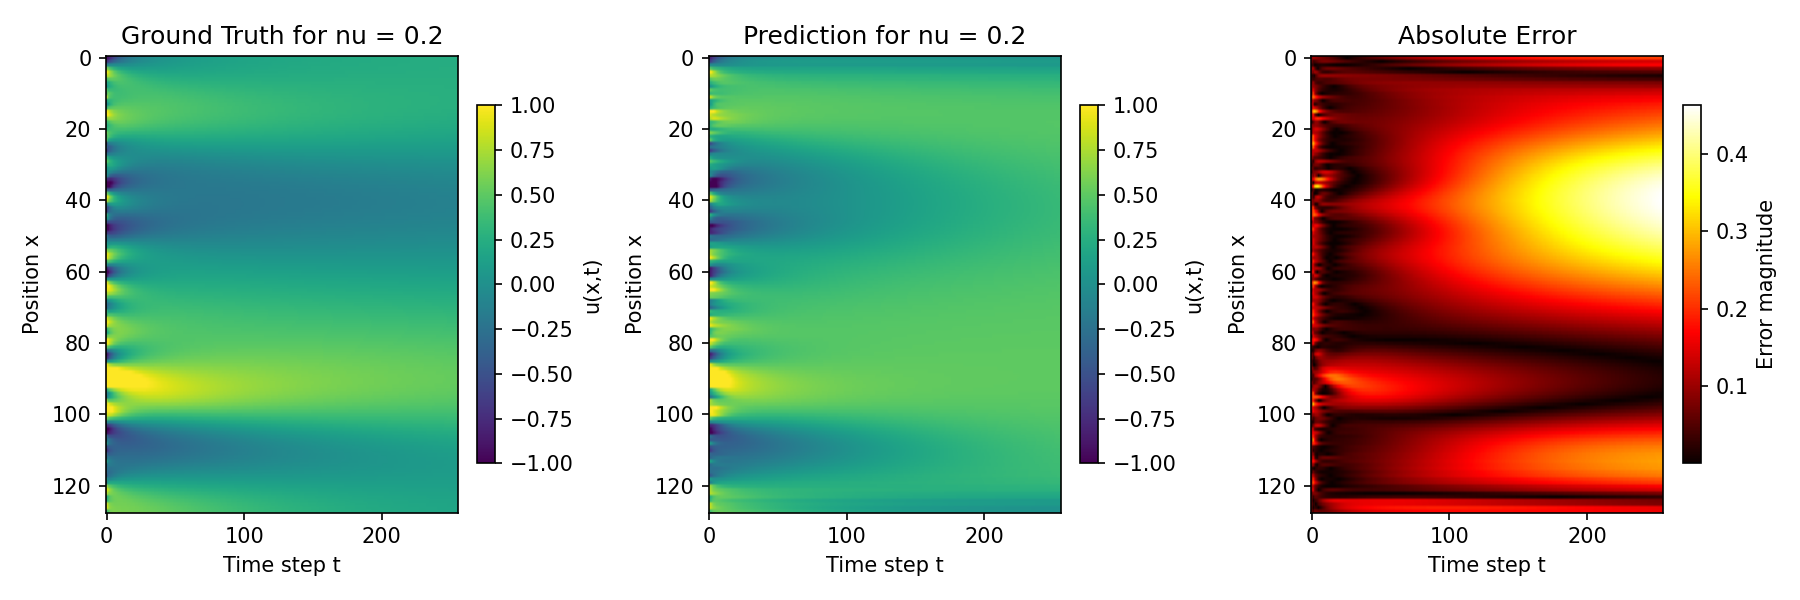
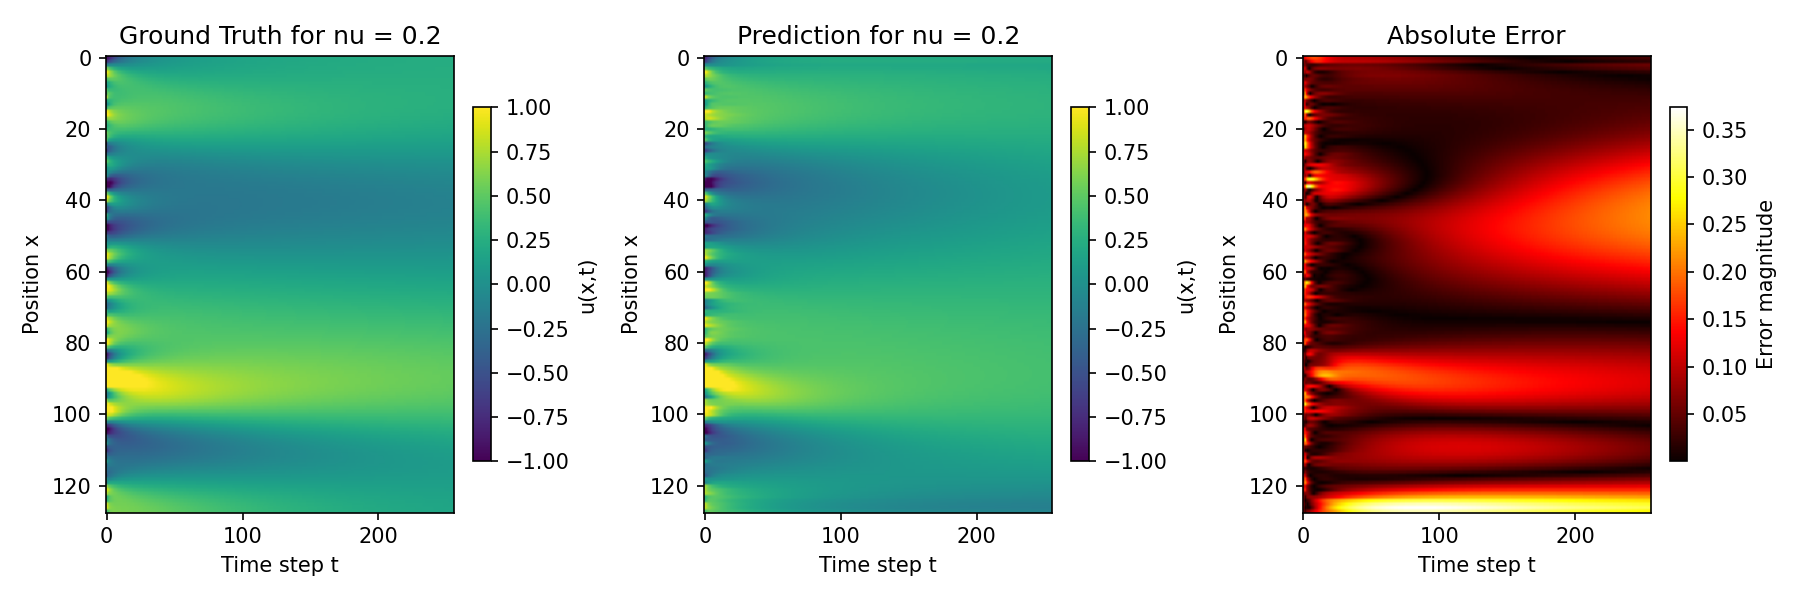
updates

diff --git a/Physical_Simulator/burgers_minimal_Akash.py b/Physical_Simulator/burgers_minimal_Akash.py
@@ -152,7 +152,7 @@ def spatial_gradient(u, dx=0.05):
     u_left = torch.roll(u, 1, dims=-1)
     return (u_right - u_left) / (2 * dx)
 
-def plot_trajectory_comparison(model, test_loader, history_len, epoch=None):
+def plot_trajectory_comparison(model, test_batch, history_len, epoch=None):
     """
     Plots full trajectory: True vs Pred vs Error
     """
@@ -166,68 +166,67 @@ def plot_trajectory_comparison(model, test_loader, history_len, epoch=None):
 
 
     with torch.no_grad():
-        for history_batch, target_batch, nu_batch in test_loader:
-            history_batch = history_batch.to(device)
-            target_batch = target_batch.to(device)
-            nu_batch = nu_batch.to(device)
-            B, T, N = target_batch.shape
+        history_batch, target_batch, nu_batch = test_batch
+        history_batch = history_batch.to(device)
+        target_batch = target_batch.to(device)
+        nu_batch = nu_batch.to(device)
+        B, T, N = target_batch.shape
 
-            preds = []
-            current_window = history_batch # (B, history_len, N)
-            
-            for t in range(T):
-                # Ensure shape is (B, history_len, N)
-                if current_window.dim() == 2:
-                    # Expand to (B, history_len, N)
-                    current_window = current_window.unsqueeze(1).repeat(1, history_len, 1)
-                pred = model(current_window)
-                if pred.dim() == 2:
-                    pred = pred.unsqueeze(1)
-                preds.append(pred)
-                current_window = torch.cat([current_window[:, 1:, :], pred], dim=1)
+        preds = []
+        current_window = history_batch # (B, history_len, N)
+        
+        if current_window.dim() == 2:
+            # Expand to (B, history_len, N)
+            current_window = current_window.unsqueeze(1).repeat(1, history_len, 1)
+        for t in range(T):
+            # Ensure shape is (B, history_len, N)
+            pred = model(current_window)
+            if pred.dim() == 2:
+                pred = pred.unsqueeze(1)
+            preds.append(pred)
+            current_window = torch.cat([current_window[:, 1:, :], pred], dim=1)
 
-            preds = torch.stack(preds)  # (T, B, 1, N)
-            preds = preds.squeeze(2)  # remove singleton channel -> (T, B, N)
-            preds = preds.permute(1, 0, 2) # (B, T, N)
-            true = target_batch # (B, T, N)
+        preds = torch.stack(preds)  # (T, B, 1, N)
+        preds = preds.squeeze(2)  # remove singleton channel -> (T, B, N)
+        preds = preds.permute(1, 0, 2) # (B, T, N)
+        true = target_batch # (B, T, N)
 
-            # Take first sample
-            pred_np = preds[0].cpu().numpy()  # (T, N)
-            true_np = true[0].cpu().numpy()   # (T, N)
-            nu_val = float(nu_batch[0].item()) # (1)
-            error_np = np.abs(pred_np - true_np)    # (T, N)
+        # Take first sample
+        pred_np = preds[0].cpu().numpy()  # (T, N)
+        true_np = true[0].cpu().numpy()   # (T, N)
+        nu_val = float(nu_batch[0].item()) # (1)
+        error_np = np.abs(pred_np - true_np)    # (T, N)
 
-            fig, axes = plt.subplots(1, 3, figsize=(12, 4))
+        fig, axes = plt.subplots(1, 3, figsize=(12, 4))
 
-            # Ground Truth Plot
-            im0 = axes[0].imshow(true_np.T, aspect='auto', cmap='viridis', vmin=-1, vmax=1)
-            axes[0].set_title(f"Ground Truth for nu = {nu_val:.3g}")
-            axes[0].set_xlabel('Time step t')
-            axes[0].set_ylabel('Position x')
-            cbar = fig.colorbar(im0, ax=axes[0], fraction=0.046)
-            cbar.set_label('u(x,t)')
+        # Ground Truth Plot
+        im0 = axes[0].imshow(true_np.T, aspect='auto', cmap='viridis', vmin=-1, vmax=1)
+        axes[0].set_title(f"Ground Truth for nu = {nu_val:.3g}")
+        axes[0].set_xlabel('Time step t')
+        axes[0].set_ylabel('Position x')
+        cbar = fig.colorbar(im0, ax=axes[0], fraction=0.046)
+        cbar.set_label('u(x,t)')
 
-            # Prediction Plot
-            im1 = axes[1].imshow(pred_np.T, aspect='auto', cmap='viridis', vmin=-1, vmax=1)
-            axes[1].set_title(f'Prediction for nu = {nu_val:.3g}')
-            axes[1].set_xlabel('Time step t')
-            axes[1].set_ylabel('Position x')
-            cbar = fig.colorbar(im1, ax=axes[1], fraction=0.046)
-            cbar.set_label('u(x,t)')
+        # Prediction Plot
+        im1 = axes[1].imshow(pred_np.T, aspect='auto', cmap='viridis', vmin=-1, vmax=1)
+        axes[1].set_title(f'Prediction for nu = {nu_val:.3g}')
+        axes[1].set_xlabel('Time step t')
+        axes[1].set_ylabel('Position x')
+        cbar = fig.colorbar(im1, ax=axes[1], fraction=0.046)
+        cbar.set_label('u(x,t)')
 
-            # Error Plot
-            im2 = axes[2].imshow(error_np.T, aspect='auto', cmap='hot')
-            axes[2].set_title('Absolute Error')
-            axes[2].set_xlabel('Time step t')
-            axes[2].set_ylabel('Position x')
-            cbar = fig.colorbar(im2, ax=axes[2], fraction=0.046)
-            cbar.set_label('Error magnitude')
+        # Error Plot
+        im2 = axes[2].imshow(error_np.T, aspect='auto', cmap='hot')
+        axes[2].set_title('Absolute Error')
+        axes[2].set_xlabel('Time step t')
+        axes[2].set_ylabel('Position x')
+        cbar = fig.colorbar(im2, ax=axes[2], fraction=0.046)
+        cbar.set_label('Error magnitude')
 
-            plt.tight_layout()
-            if epoch is not None:
-                plt.savefig(output_dir / f"trajectory_epoch_{epoch}_nu{nu_val:.3g}.png", dpi=150)
-            plt.show()
-            break  # only first batch
+        plt.tight_layout()
+        if epoch is not None:
+            plt.savefig(output_dir / f"trajectory_epoch_{epoch}_nu{nu_val:.3g}.png", dpi=150)
+        plt.show()
 
 
 # Function to plot loss per epoch
@@ -251,7 +250,9 @@ def train_model(train_loader, test_loader, history_len=20, num_epochs=50):
     model = ImprovedBurgersNet(history_len).to(device)
     optimizer = torch.optim.AdamW(model.parameters(), lr=0.001, weight_decay=1e-4)
     scheduler = torch.optim.lr_scheduler.CosineAnnealingLR(optimizer, T_max=num_epochs)
-    
+    # Fetch a single test batch upfront for fast evaluation ---
+    test_batch = next(iter(test_loader))
+
     print("="*60)
     print("TRAINING WITH EXTERNAL DATASET")
     print(f"History length: {history_len}")
@@ -270,14 +271,15 @@ def train_model(train_loader, test_loader, history_len=20, num_epochs=50):
 
         
         # Curriculum rollout depth
-        if epoch < 25:
+        if epoch < 10:
             rollout_depth = 8
-        elif epoch < 50:
+            teacher_force_rate = 0.5
+        elif epoch < 30:
             rollout_depth = 16
-        elif epoch < 75:
-            rollout_depth = 32
+            teacher_force_rate = 0.2
         else:
-            rollout_depth = 64
+            rollout_depth = 32
+            teacher_force_rate = 0.05
         
         for batch_idx, batch in enumerate(train_loader):
             history_batch, target_batch, _ = batch
@@ -285,12 +287,7 @@ def train_model(train_loader, test_loader, history_len=20, num_epochs=50):
             target_batch = target_batch.to(device)    # (B, 1, points)
             if history_batch.dim() == 2:
                 history_batch = history_batch.unsqueeze(1).repeat(1, history_len, 1)
-            
-            
-            assert history_batch.shape == (history_batch.shape[0], history_len, history_batch.shape[2])
-            # print(f"\nHistory Batch shape: {history_batch.shape}")  # (B,20,128)
-            # print(f"\nTarget batch shape: {target_batch.shape}")
-            
+                       
             
             optimizer.zero_grad()
             
@@ -311,8 +308,6 @@ def train_model(train_loader, test_loader, history_len=20, num_epochs=50):
                 
                 pred = model(current_window) # Ahora (B, 20, points) → (B, 1, points)
                 target = target_batch[:, k:k+1, :] # (B, 1, points)
-                
-
 
                 # MSE
                 mse = torch.nn.functional.mse_loss(pred.squeeze(), target.squeeze())
@@ -335,7 +330,7 @@ def train_model(train_loader, test_loader, history_len=20, num_epochs=50):
                 
                 # Update window (teacher forcing occasionally)
                 if k < rollout_depth - 1:
-                    if np.random.random() < 0.1:
+                    if np.random.random() < teacher_force_rate:
                         next_state = target # (B,1,128)
                     else:
                         next_state = pred # (B,1,128)
@@ -361,9 +356,9 @@ def train_model(train_loader, test_loader, history_len=20, num_epochs=50):
             print("=" * 50)
             tqdm.write(f"Epoch {epoch}: Loss={avg_loss:.4f}, E_pen={energy_loss_total/len(train_loader):.4f}, Rollout={rollout_depth}")
             print("=" * 50)
-            plot_trajectory_comparison(model, test_loader, history_len, epoch = epoch)
+            plot_trajectory_comparison(model, test_batch, history_len, epoch = epoch)
             # Compute metrics
-            metrics_results = compute_metrics(model, test_loader, history_len)
+            metrics_results = compute_metrics(model, test_batch, history_len)
             print("=" * 50)
             print(f"Metrics at Epoch {epoch}")
             print("=" * 50)
@@ -380,7 +375,7 @@ def evaluate_model(model, test_loader, history_len):
     model.eval()
     device = next(model.parameters()).device
     
-    all_mse, all_psnr = [], []
+    all_mse = []
     
     with torch.no_grad():
         for history_batch, target_batch, _ in test_loader:
@@ -390,7 +385,7 @@ def evaluate_model(model, test_loader, history_len):
 
             preds = []
             current_window = history_batch.unsqueeze(1).repeat(1, history_len, 1) # (B, T, N)
-            assert current_window.dim() == 3, current_window.shape
+            # assert current_window.dim() == 3, current_window.shape
             # print(f"\nCurrent Window shape: {current_window.shape}")
             
             # Autoregressive rollout
@@ -406,10 +401,7 @@ def evaluate_model(model, test_loader, history_len):
             preds = torch.stack(preds[:target_batch.shape[1]])
             preds = preds.squeeze(2)              # remove singleton dimension
             preds = preds.permute(1, 0, 2)       # if needed to match (B, T, N)
-            assert preds.shape == target_batch.shape, f"{preds.shape} vs {target_batch.shape}"
-            # print(f"\nPreds shape: {preds.shape}")
-            # print(f"\nTargets shape: {target_batch.shape}")
-            
+        
             mse = torch.nn.functional.mse_loss(preds, target_batch.to(device)).item()
             all_mse.append(mse)
     
